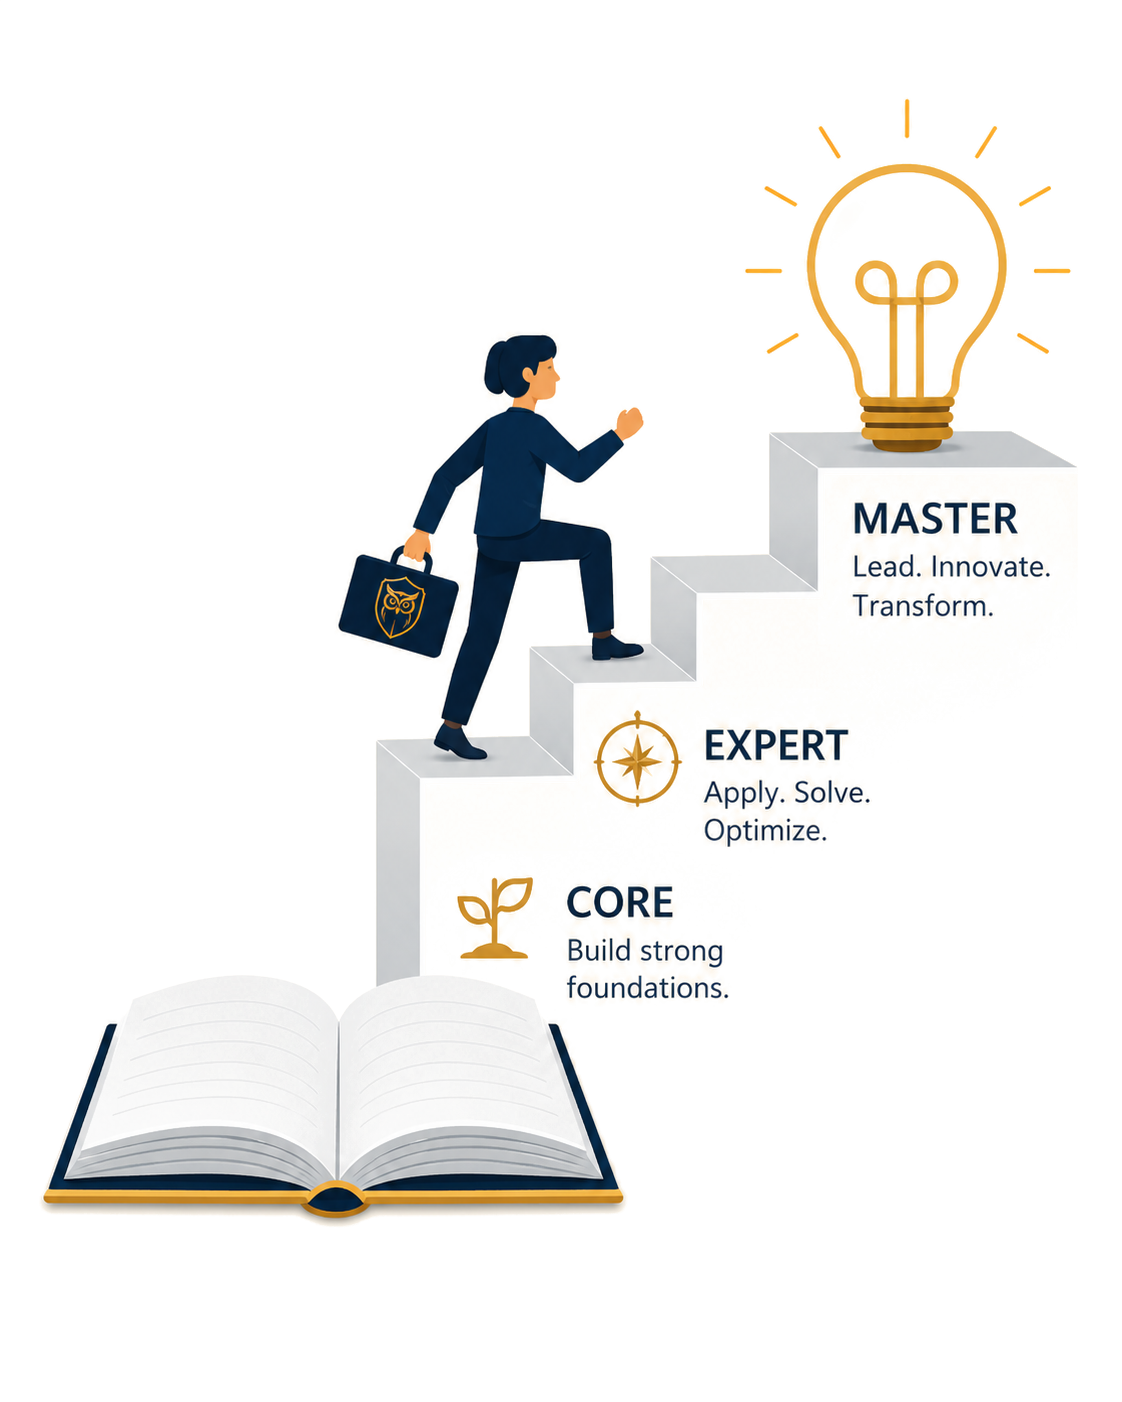
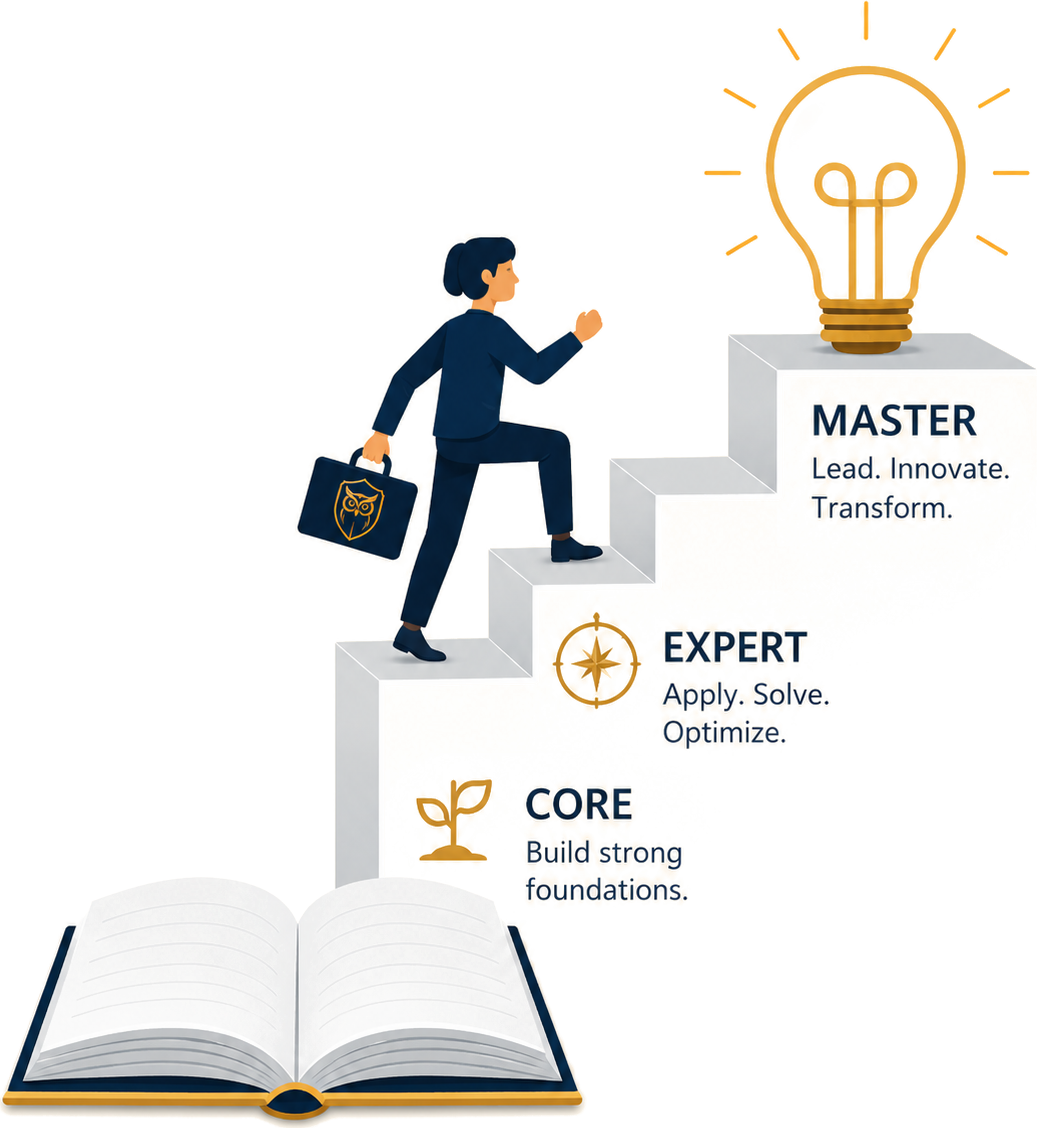
fix(ladder2): crop both staircase images to tight bbox (caption right under illo in both modes), re-center on Every AI Product (v=43, img v=4)

Changed region(s): [[0.0, 0.0, 0.9875, 1.0], [0.7406, 0.031, 0.7715, 0.0621]]

diff --git a/theladder/ladder2.html b/theladder/ladder2.html
@@ -18,7 +18,7 @@
   <link rel="stylesheet" href="/academy-theme.css?v=2">
   <link rel="stylesheet" href="/academy-dark-mode.css?v=2">
   <link rel="stylesheet" href="/theladder/ladder.css?v=51">
-  <link rel="stylesheet" href="/theladder/ladder2.css?v=42">
+  <link rel="stylesheet" href="/theladder/ladder2.css?v=43">
 </head>
 <body class="l2">
 
@@ -82,8 +82,8 @@
         </ul>
       </aside>
       <aside class="ladder-stairs-aside">
-        <img class="ladder-stairs ladder-stairs--light" src="/theladder/ladder-stairs.png?v=3" alt="The Ladder AI levels — Core, Expert, Master">
-        <img class="ladder-stairs ladder-stairs--dark" src="/theladder/ladder-stairs-dark.png?v=3" alt="" aria-hidden="true">
+        <img class="ladder-stairs ladder-stairs--light" src="/theladder/ladder-stairs.png?v=4" alt="The Ladder AI levels — Core, Expert, Master">
+        <img class="ladder-stairs ladder-stairs--dark" src="/theladder/ladder-stairs-dark.png?v=4" alt="" aria-hidden="true">
         <p class="ladder-stairs-caption">Brought to you by Aesop AI Academy</p>
       </aside>
     </section>

diff --git a/theladder/ladder2.css b/theladder/ladder2.css
@@ -337,7 +337,7 @@ body.l2 .ladder-stairs-aside {
   position: absolute;
   right: 0.5in;   /* moved 1/2in left from the right-whitespace centre */
   width: 26%;
-  top: 106px;     /* image vertical centre aligns with the "Every AI Product" line */
+  top: 135px;     /* image vertical centre aligns with the "Every AI Product" line */
   text-align: center;
 }
 body.l2 .ladder-stairs { width: 100%; max-width: 400px; height: auto; display: block; margin: 0 auto; }